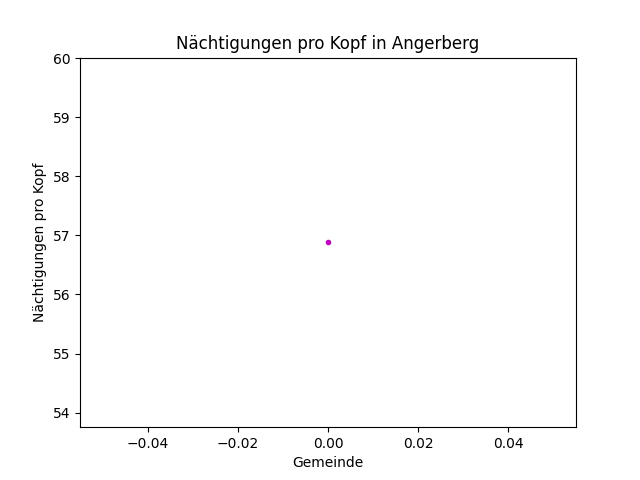
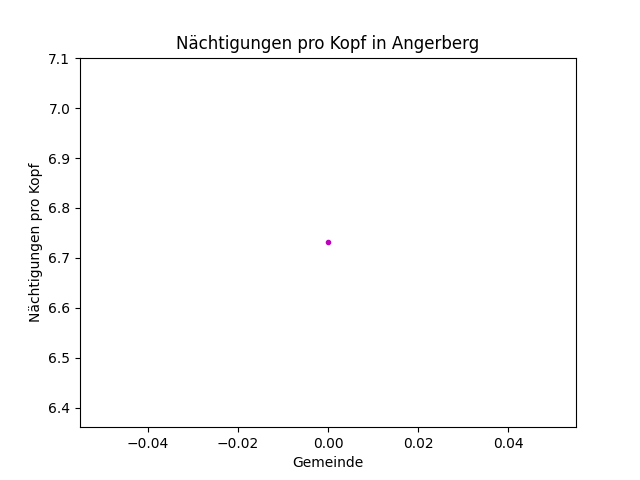
1.01

diff --git a/Strillinger_INFI_Aufgabe_03_Pandas/main.py b/Strillinger_INFI_Aufgabe_03_Pandas/main.py
@@ -12,6 +12,7 @@ base.extend('x' + years)
 df.columns = base
 #print(df.describe())
 
+
 # 2.1
 groth_ibk = df.values[2,3:]
 plt.title("Nächtigungen in Ibk: ")
@@ -149,8 +150,8 @@ plt.show()
 
 # 5 d
 plt.title("Nächtigungen pro Kopf in Angerberg")
-plt.plot(stays_per_person_2020[139-5], "m.")# Angerberg in Excel: Zeile 139 
-print(stays_per_person_2020[139-5])
+plt.plot(stays_per_person_2020[139-6], "m.")# Angerberg in Excel: Zeile 139 
+#print(stays_per_person_2020[139-6])
 plt.xlabel("Gemeinde")
 plt.ylabel("Nächtigungen pro Kopf")
 plt.savefig("img/5_d.png")
